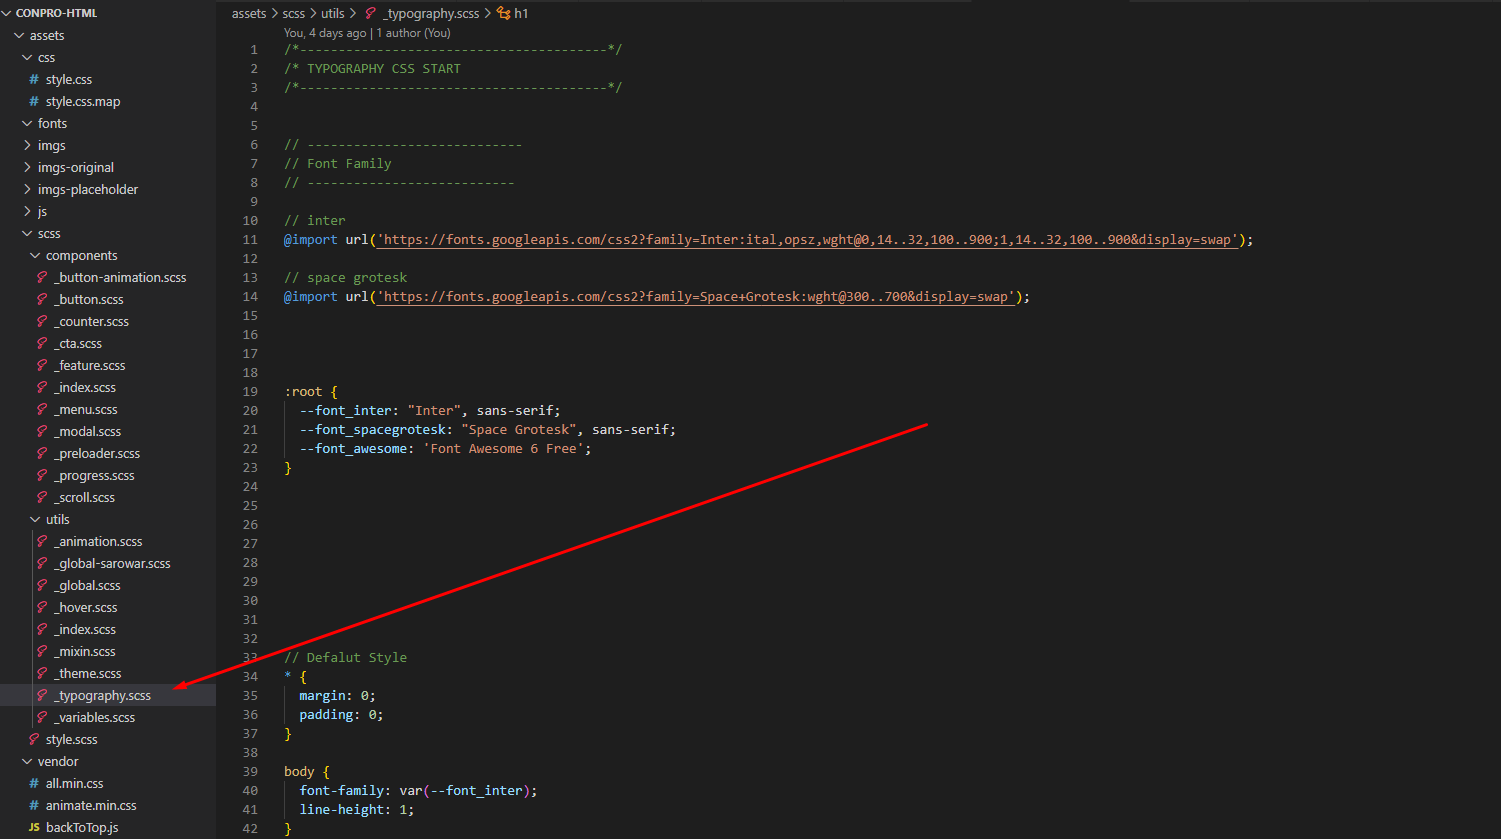
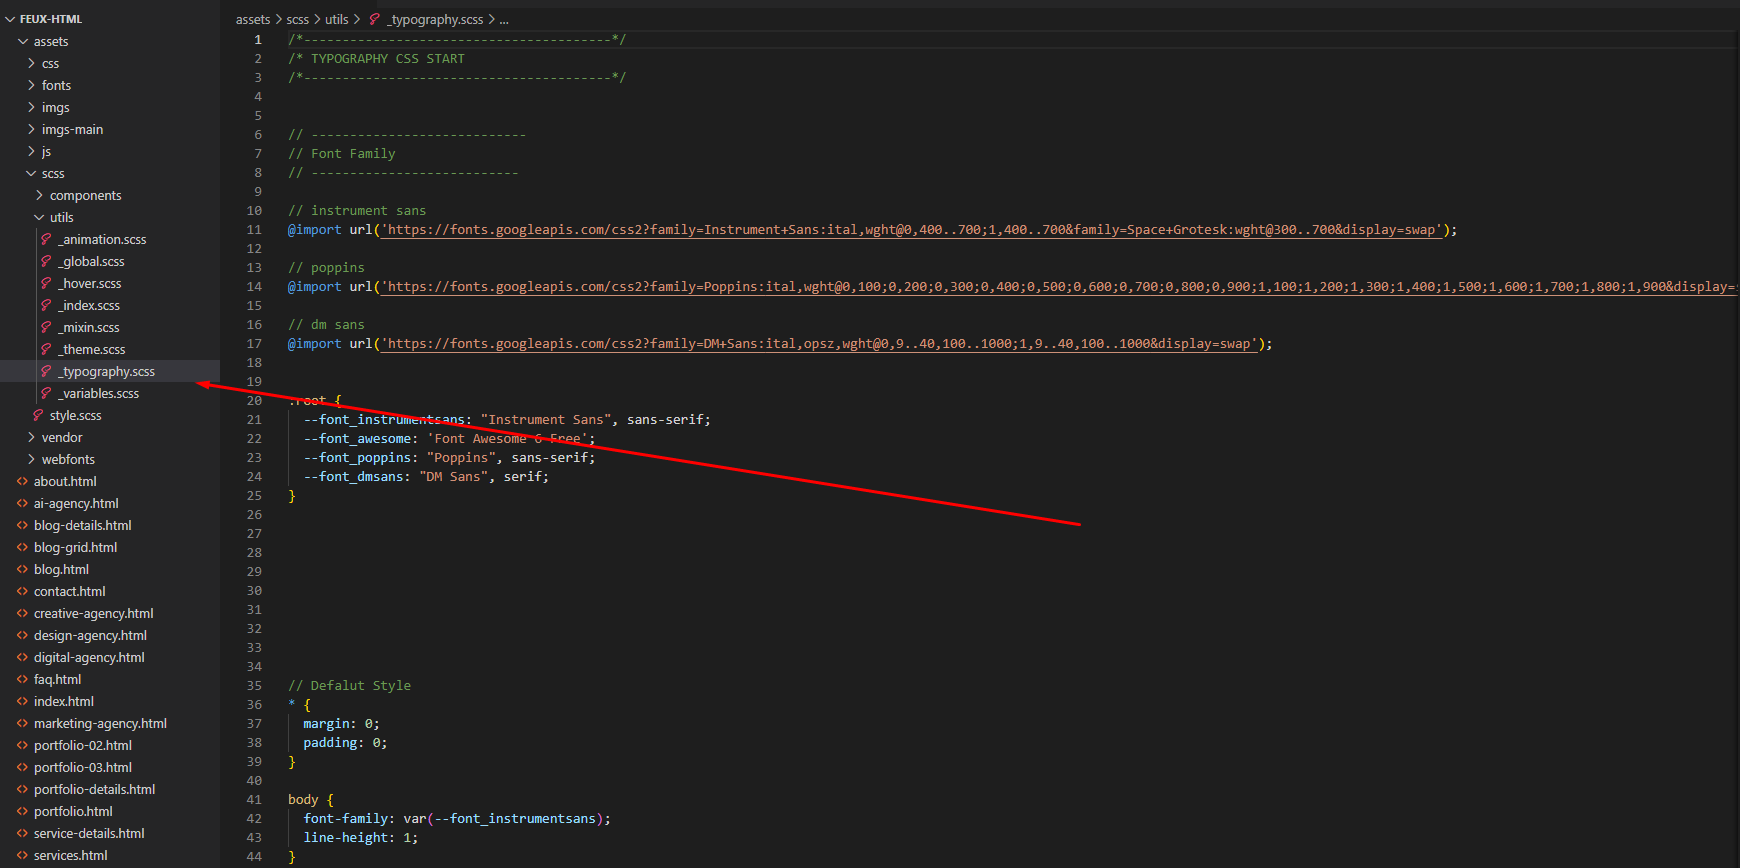
add

diff --git a/documentation/documentation/index.html b/documentation/documentation/index.html
@@ -164,7 +164,8 @@
                 <div class="col-md-12">
                     <div class="section-content">
                         <p>
-                            <strong><a href="https://fonts.google.com/specimen/Inter?query=inter">Inter</a></strong>
+                            <strong><a href="https://fonts.google.com/specimen/Instrument+Sans">Instrument
+                                    Sans</a></strong>
                         </p>
                         <p>to change the font family: assets->scss->utils->_typography.scss and edit.
                             for better understanding check the screenschort.</p>
@@ -206,6 +207,7 @@
 &lt;link rel="stylesheet" href="assets/vendor/meanmenu.min.css"&gt;
 &lt;link rel="stylesheet" href="assets/vendor/magnific-popup.css"&gt;
 &lt;link rel="stylesheet" href="assets/vendor/animate.min.css"&gt;
+&lt;link rel="stylesheet" href="assets/vendor/nice-select.css"&gt;
 &lt;link rel="stylesheet" href="assets/css/style.css"&gt;
 </pre>
                     </div>
@@ -239,8 +241,9 @@
 &lt;script src="assets/vendor/gsap.min.js"&gt;&lt;/script&gt;
 &lt;script src="assets/vendor/ScrollSmoother.min.js"&gt;&lt;/script&gt;
 &lt;script src="assets/vendor/ScrollTrigger.min.js"&gt;&lt;/script&gt;
+&lt;script src="assets/vendor/SplitText.min.js"&gt;&lt;/script&gt;
 &lt;script src="assets/vendor/jquery.meanmenu.min.js"&gt;&lt;/script&gt;
-&lt;script src="assets/vendor/wow.min.js"&gt;&lt;/script&gt;
+&lt;script src="assets/vendor/nice-select.min.js"&gt;&lt;/script&gt;
 &lt;script src="assets/vendor/backToTop.js"&gt;&lt;/script&gt;
 &lt;script src="assets/js/main.js"&gt;&lt;/script&gt;
 </pre>
@@ -269,12 +272,7 @@
                                 change your logo. for better understanding check the screenschort</p>
                             <img src="img/logo.png" alt="" class="img-thumbnail img-responsive">
                         </div>
-                        <div class="single-content">
-                            <h4>How to Change Mask Image</h4>
-                            <p>Change the image from into mask-image wrapper class. for better understanding check the
-                                screenschort</p>
-                            <img src="img/mask-image.png" alt="" class="img-thumbnail img-responsive">
-                        </div>
+
                         <div class="single-content">
                             <h4>How to disable Preloader</h4>
                             <p>To remove the Preloader, just remove the HTML code from the very top of the each HTML
@@ -325,7 +323,8 @@
         </div>
     </section>
     <footer>
-        <p class="text-center">All rights reserved &copy; 2024 <a href="https://themeforest.net/user/mugli">Mugli</a>
+        <p class="text-center">All rights reserved &copy; 2025 <a
+                href="https://themeforest.net/user/wprealizer">wprealizer</a>
         </p>
     </footer>
     <!-- /Source File (JS) Section -->
